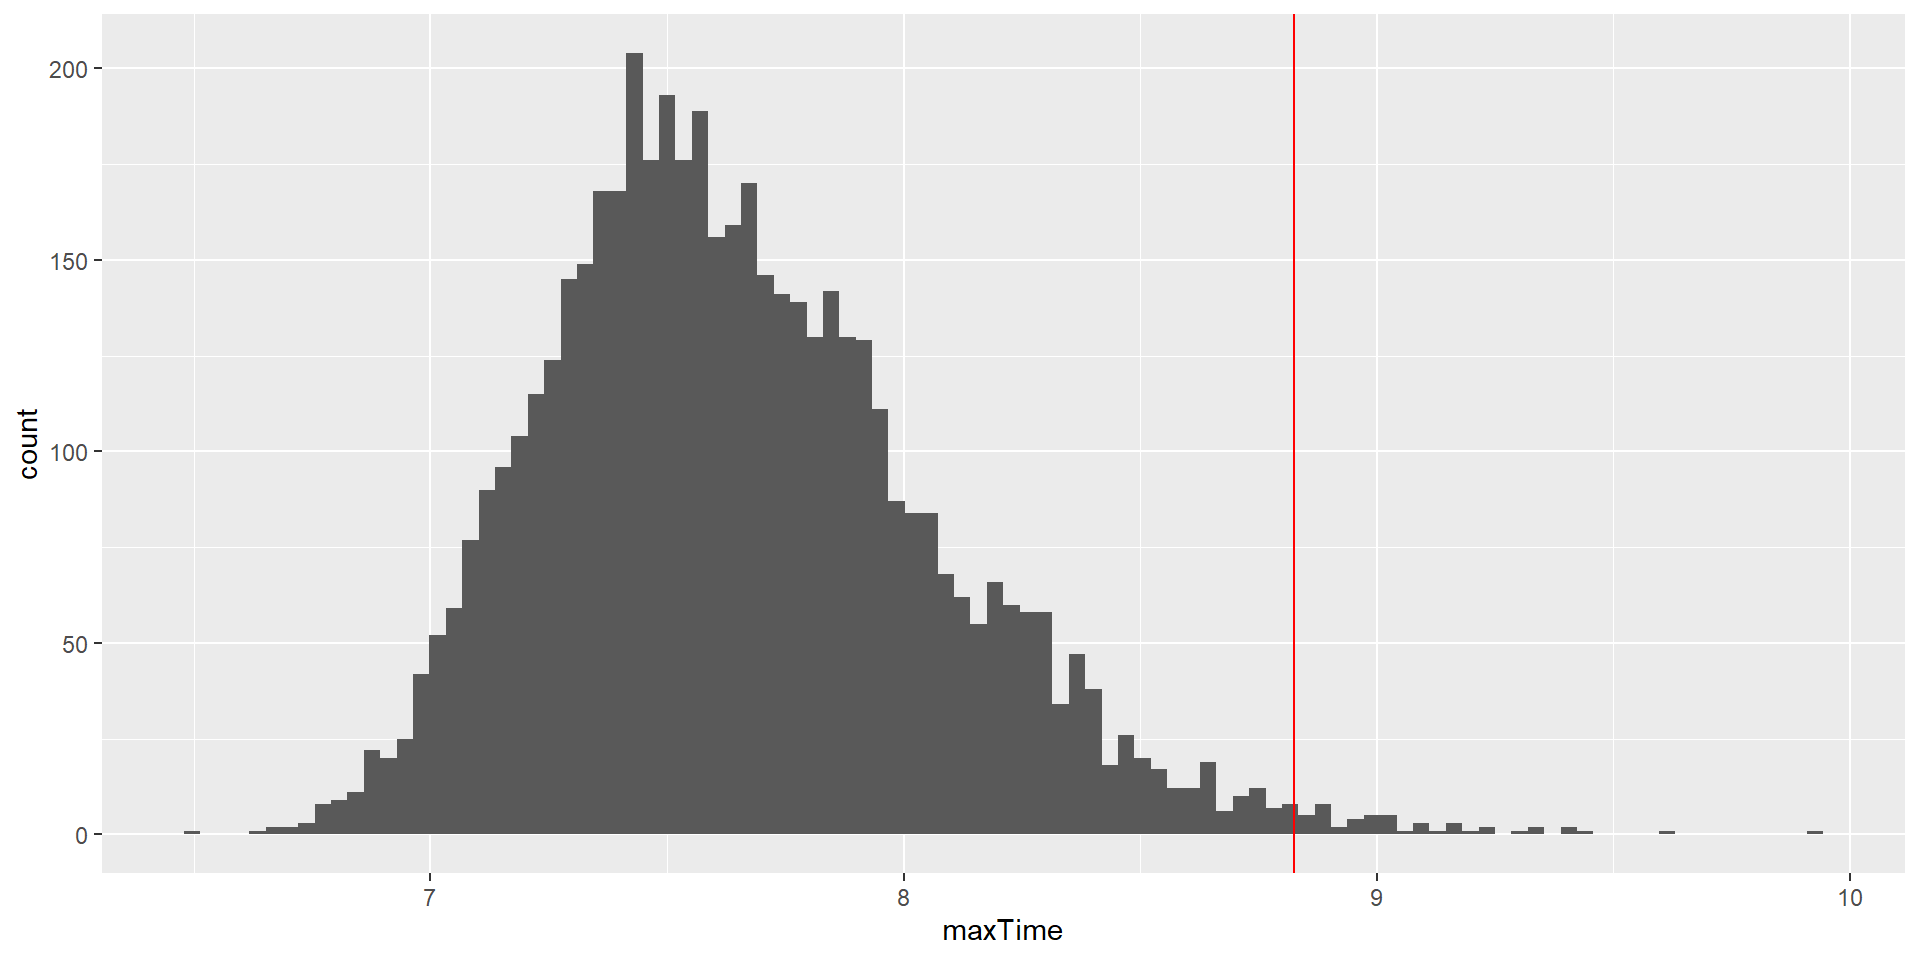
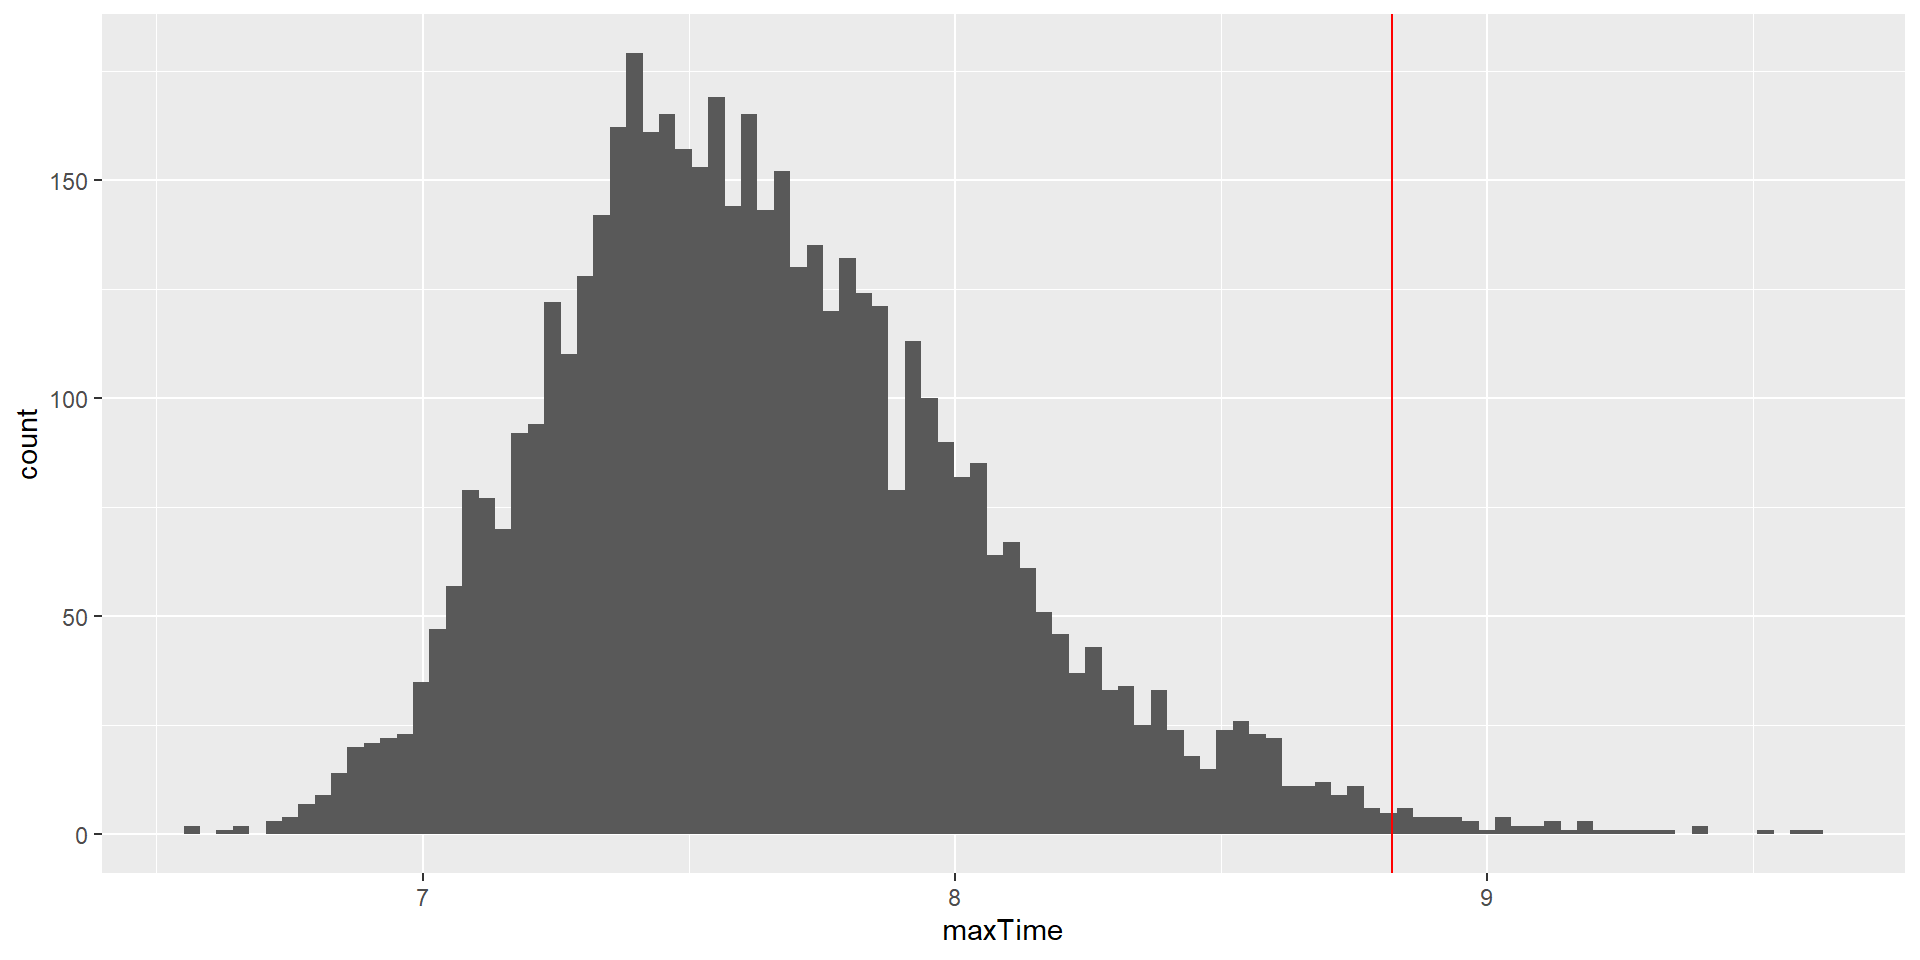
Built site for gh-pages

diff --git a/W6_Sampling.html b/W6_Sampling.html
@@ -288,24 +288,24 @@ Dr.&nbsp;Lea Hildebrandt
 </thead>
 <tbody>
 <tr class="odd">
-<td style="text-align: right;">169.310</td>
-<td style="text-align: right;">10.434250</td>
+<td style="text-align: right;">167.322</td>
+<td style="text-align: right;">9.650913</td>
 </tr>
 <tr class="even">
-<td style="text-align: right;">166.874</td>
-<td style="text-align: right;">11.381722</td>
+<td style="text-align: right;">168.238</td>
+<td style="text-align: right;">11.016183</td>
 </tr>
 <tr class="odd">
-<td style="text-align: right;">168.120</td>
-<td style="text-align: right;">11.268522</td>
+<td style="text-align: right;">168.046</td>
+<td style="text-align: right;">10.477716</td>
 </tr>
 <tr class="even">
-<td style="text-align: right;">169.942</td>
-<td style="text-align: right;">7.805913</td>
+<td style="text-align: right;">165.098</td>
+<td style="text-align: right;">10.215304</td>
 </tr>
 <tr class="odd">
-<td style="text-align: right;">165.002</td>
-<td style="text-align: right;">10.554765</td>
+<td style="text-align: right;">168.636</td>
+<td style="text-align: right;">9.715625</td>
 </tr>
 </tbody>
 </table>
@@ -650,15 +650,15 @@ This value is the amount of time that we should allow - <em>given our assumption
 <span id="cb10-13"><a></a>cutoff <span class="ot">&lt;-</span> <span class="fu">quantile</span>(max_rand_num, <span class="fl">0.99</span>)</span>
 <span id="cb10-14"><a></a><span class="fu">print</span>(cutoff)</span></code><button title="Copy to Clipboard" class="code-copy-button"><i class="bi"></i></button></pre></div>
 <div class="cell-output cell-output-stdout">
-<pre><code>     99% 
-8.830099 </code></pre>
+<pre><code>    99% 
+8.81384 </code></pre>
 </div>
 </div>
 </section>
 <section id="using-monte-carlo-simulations-4" class="slide level2">
 <h2>Using Monte Carlo Simulations 4</h2>
 
-<img data-src="W6_Sampling_files/figure-revealjs/unnamed-chunk-14-1.png" width="960" class="r-stretch"><p>This shows that the 99th percentile of the finishing time distribution falls at 8.8258547 minutes, meaning that if we were to give that much time for the quiz, then we expect that in 99% of quizzes, every student would finish.</p>
+<img data-src="W6_Sampling_files/figure-revealjs/unnamed-chunk-14-1.png" width="960" class="r-stretch"><p>This shows that the 99th percentile of the finishing time distribution falls at 8.8213385 minutes, meaning that if we were to give that much time for the quiz, then we expect that in 99% of quizzes, every student would finish.</p>
 <aside class="notes">
 <p>Assumptions matter, otherwise results wrong! (We assumed: normal dist w/ particular mean and SD). Here assumptions certainly wrong –&gt; elapsed time not normal</p>
 <style type="text/css">
@@ -714,11 +714,11 @@ This value is the amount of time that we should allow - <em>given our assumption
 <span id="cb12-21"><a></a></span>
 <span id="cb12-22"><a></a>SEM_standard</span></code><button title="Copy to Clipboard" class="code-copy-button"><i class="bi"></i></button></pre></div>
 <div class="cell-output cell-output-stdout">
-<pre><code>[1] 2.16073</code></pre>
+<pre><code>[1] 1.738078</code></pre>
 </div>
 <div class="sourceCode cell-code" id="cb14"><pre class="sourceCode numberSource r number-lines code-with-copy"><code class="sourceCode r"><span id="cb14-1"><a></a>SEM_bootstrap</span></code><button title="Copy to Clipboard" class="code-copy-button"><i class="bi"></i></button></pre></div>
 <div class="cell-output cell-output-stdout">
-<pre><code>[1] 2.123418</code></pre>
+<pre><code>[1] 1.72371</code></pre>
 </div>
 </div>
 </div><div class="column">
@@ -799,7 +799,7 @@ Model-based procedures (like most statistical tests we will cover in this class)
 </div>
 <div class="sourceCode cell-code" id="cb20"><pre class="sourceCode numberSource r number-lines code-with-copy"><code class="sourceCode r"><span id="cb20-1"><a></a><span class="fu">sd</span>(mean_bootstrap_20)</span></code><button title="Copy to Clipboard" class="code-copy-button"><i class="bi"></i></button></pre></div>
 <div class="cell-output cell-output-stdout">
-<pre><code>[1] 0.3637583</code></pre>
+<pre><code>[1] 0.4456413</code></pre>
 </div>
 </div>
 <p>We can conclude that the SEM is smaller with a larger sample size, which means we can be more certain about our estimate! (We already knew this from the <span class="math inline">\(\sqrt{n}\)</span> in the denominator of the SE formular but it’s nice to see it confirmed.)</p>

diff --git a/W5_Probability.html b/W5_Probability.html
@@ -740,27 +740,27 @@ div.cell-output-stdout {
 <div class="sourceCode cell-code" id="cb1"><pre class="sourceCode numberSource r number-lines code-with-copy"><code class="sourceCode r"><span id="cb1-1"><a></a><span class="co">#1</span></span>
 <span id="cb1-2"><a></a><span class="fu">runif</span>(<span class="at">n=</span><span class="dv">1</span>) <span class="co">#default parameters are already set to min=0 and max=1</span></span></code><button title="Copy to Clipboard" class="code-copy-button"><i class="bi"></i></button></pre></div>
 <div class="cell-output cell-output-stdout">
-<pre><code>[1] 0.3449839</code></pre>
+<pre><code>[1] 0.7832533</code></pre>
 </div>
 <div class="sourceCode cell-code" id="cb3"><pre class="sourceCode numberSource r number-lines code-with-copy"><code class="sourceCode r"><span id="cb3-1"><a></a><span class="co">#2</span></span>
 <span id="cb3-2"><a></a><span class="fu">runif</span>(<span class="at">n=</span><span class="dv">100</span>, <span class="at">max=</span><span class="dv">10</span>) <span class="sc">%&gt;%</span> <span class="fu">mean</span>()</span></code><button title="Copy to Clipboard" class="code-copy-button"><i class="bi"></i></button></pre></div>
 <div class="cell-output cell-output-stdout">
-<pre><code>[1] 4.941197</code></pre>
+<pre><code>[1] 5.001738</code></pre>
 </div>
 <div class="sourceCode cell-code" id="cb5"><pre class="sourceCode numberSource r number-lines code-with-copy"><code class="sourceCode r"><span id="cb5-1"><a></a><span class="co">#3</span></span>
 <span id="cb5-2"><a></a><span class="fu">sample</span>(<span class="dv">1</span><span class="sc">:</span><span class="dv">10</span>, <span class="at">size=</span><span class="dv">50</span>, <span class="at">replace=</span>T) <span class="sc">%&gt;%</span> <span class="fu">mean</span>()</span></code><button title="Copy to Clipboard" class="code-copy-button"><i class="bi"></i></button></pre></div>
 <div class="cell-output cell-output-stdout">
-<pre><code>[1] 5.7</code></pre>
+<pre><code>[1] 5.1</code></pre>
 </div>
 <div class="sourceCode cell-code" id="cb7"><pre class="sourceCode numberSource r number-lines code-with-copy"><code class="sourceCode r"><span id="cb7-1"><a></a><span class="co">#4</span></span>
 <span id="cb7-2"><a></a><span class="fu">sample</span>(<span class="fu">c</span>(<span class="st">"Anna"</span>, <span class="st">"Barbara"</span>, <span class="st">"Christina"</span>, <span class="st">"Dana"</span>), <span class="at">size=</span><span class="dv">1</span>)</span></code><button title="Copy to Clipboard" class="code-copy-button"><i class="bi"></i></button></pre></div>
 <div class="cell-output cell-output-stdout">
-<pre><code>[1] "Anna"</code></pre>
+<pre><code>[1] "Barbara"</code></pre>
 </div>
 <div class="sourceCode cell-code" id="cb9"><pre class="sourceCode numberSource r number-lines code-with-copy"><code class="sourceCode r"><span id="cb9-1"><a></a><span class="co">#5</span></span>
 <span id="cb9-2"><a></a><span class="fu">sample</span>(<span class="fu">c</span>(<span class="st">"Anna"</span>, <span class="st">"Barbara"</span>, <span class="st">"Christina"</span>, <span class="st">"Dana"</span>)) <span class="co">#by default, sample draws all elements in random order</span></span></code><button title="Copy to Clipboard" class="code-copy-button"><i class="bi"></i></button></pre></div>
 <div class="cell-output cell-output-stdout">
-<pre><code>[1] "Christina" "Anna"      "Barbara"   "Dana"     </code></pre>
+<pre><code>[1] "Barbara"   "Anna"      "Dana"      "Christina"</code></pre>
 </div>
 </div>
 </div>

diff --git a/W13_RMarkdown.html b/W13_RMarkdown.html
@@ -375,7 +375,7 @@ div.cell-output-stdout {
 <span id="cb6-2"><a></a>data = tibble(rt = rnorm(n=100, mean=.5, sd=.2))</span>
 <span id="cb6-3"><a></a>```</span>
 <span id="cb6-4"><a></a>We observed an average reaction time of `r data %&gt;% pull(rt) %&gt;% mean() %&gt;% signif(digits=3)` seconds.</span></code><button title="Copy to Clipboard" class="code-copy-button"><i class="bi"></i></button></pre></div>
-<p>We observed an average reaction time of 0.496 seconds.</p>
+<p>We observed an average reaction time of 0.521 seconds.</p>
 <ol start="3" type="1">
 <li>Knit the document and open the output with a double click.</li>
 </ol>

diff --git a/W3_DataWranglingR.html b/W3_DataWranglingR.html
@@ -900,15 +900,15 @@ Also, there are slight differences between <code>&lt;-</code> and <code>=</code>
     year decade
    &lt;dbl&gt;  &lt;dbl&gt;
  1  1888   1880
- 2  1891   1890
- 3  1904   1900
- 4  1909   1900
- 5  1949   1940
- 6  1952   1950
- 7  1956   1950
- 8  1965   1960
- 9  1997   1990
-10  2014   2010</code></pre>
+ 2  1909   1900
+ 3  1915   1910
+ 4  1919   1910
+ 5  1959   1950
+ 6  1969   1960
+ 7  1995   1990
+ 8  2000   2000
+ 9  2014   2010
+10  2017   2010</code></pre>
 </div>
 </div>
 </div>

diff --git a/W8_ModelingRelationships.html b/W8_ModelingRelationships.html
@@ -249,7 +249,7 @@ div.cell-output-stdout {
 </section>
 <section id="chi²-test-general" class="slide level2">
 <h2>Chi² Test: General</h2>
-<p>We will first focus on modeling <em>categorical</em> relationships (i.e., of variables that are qualitative!).</p>
+<p>We will first focus on modeling <em>categorical</em> relationships.</p>
 <div class="fragment">
 <p>These data are usually expressed in terms of <strong>counts</strong>.</p>
 </div>
